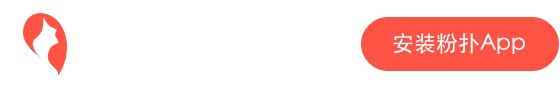
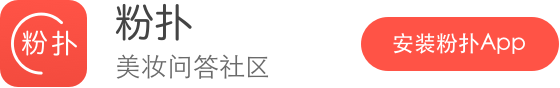
底部换图 白背景 透明度 95%

Changed region(s): [[0.0, 0.0, 0.3643, 1.0], [0.2125, 0.6136, 0.4857, 0.8864]]

diff --git a/static/css/style.css b/static/css/style.css
@@ -155,7 +155,7 @@ body {margin: 0px;min-width:320px;}
 .filter_list .on .p_t_2{background-image:url('../images/icon_category_virtue_highlight@2x.png');}
 .filter_list .on .p_t_3{background-image:url('../images/icon_category_brand_highlight@2x.png');}
 .footer{height:85px;}
-.footer_download {width:100%;height:45px;background-color:#802923;padding:20px 0px;position:fixed;bottom:0px;left:0px;}
+.footer_download {width:100%;height:45px;background-color:rgba(255,255,255,.95);padding:20px 0px;position:fixed;bottom:0px;left:0px;z-index:9999;}
 .footer_download .btn_t_download{background-size:280px 44px;width:280px;height:44px;margin:0px auto;background-image:url('../images/img_download_topic@2x.png');}
 
 @media only screen and (-webkit-min-device-pixel-ratio: 1.5), not all {
